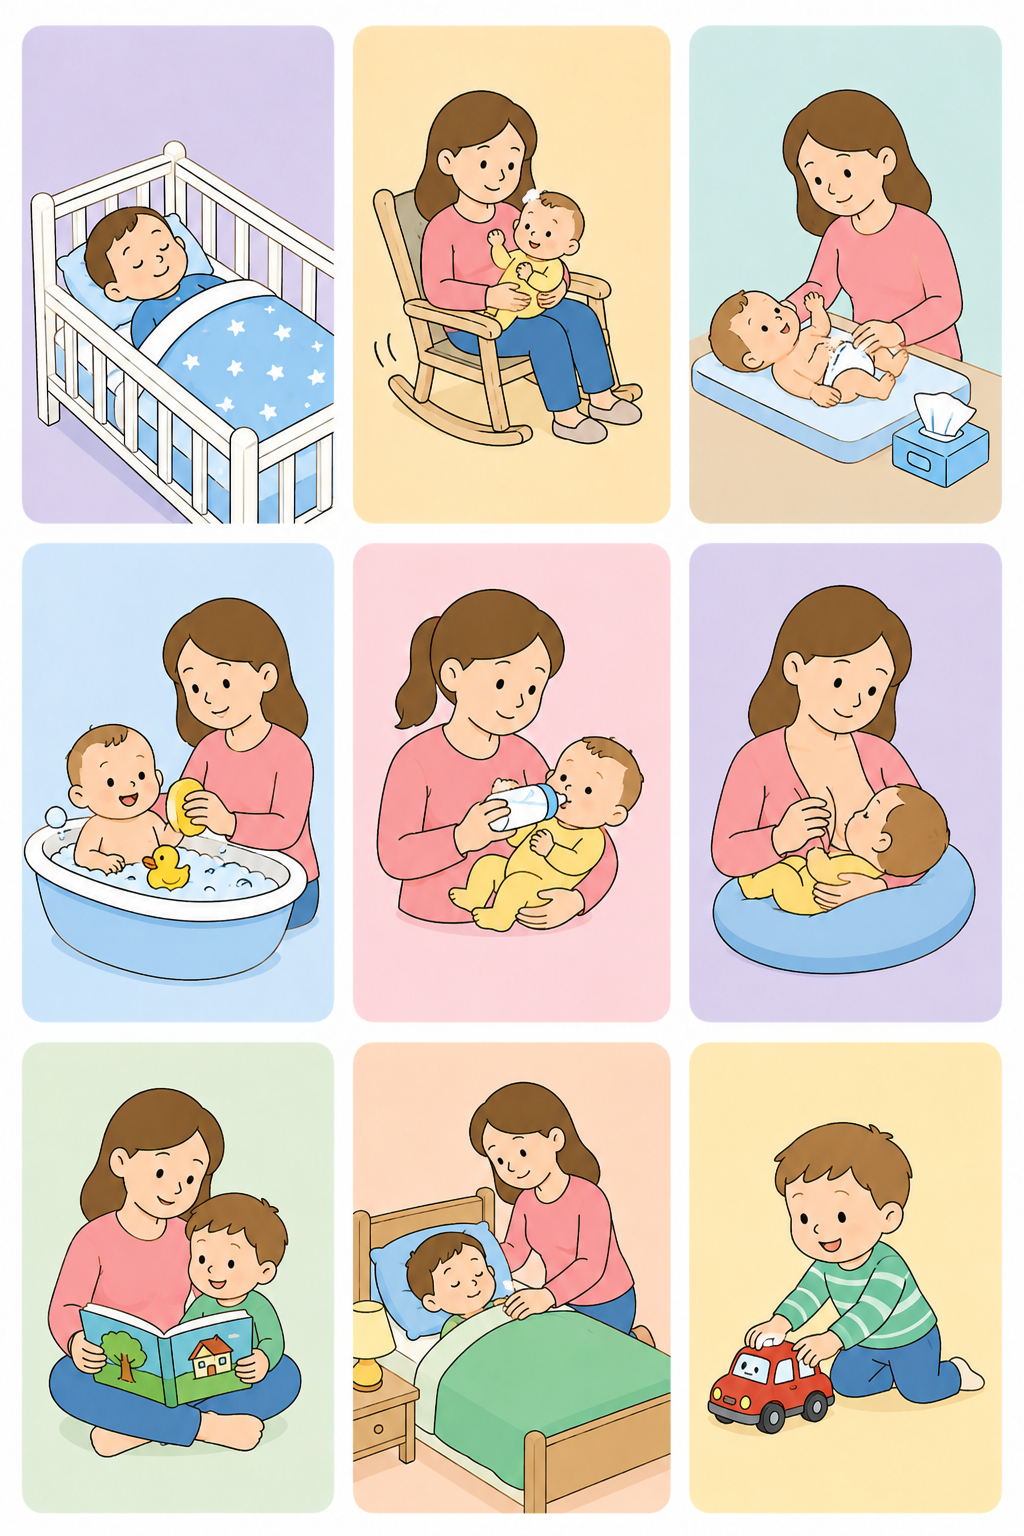
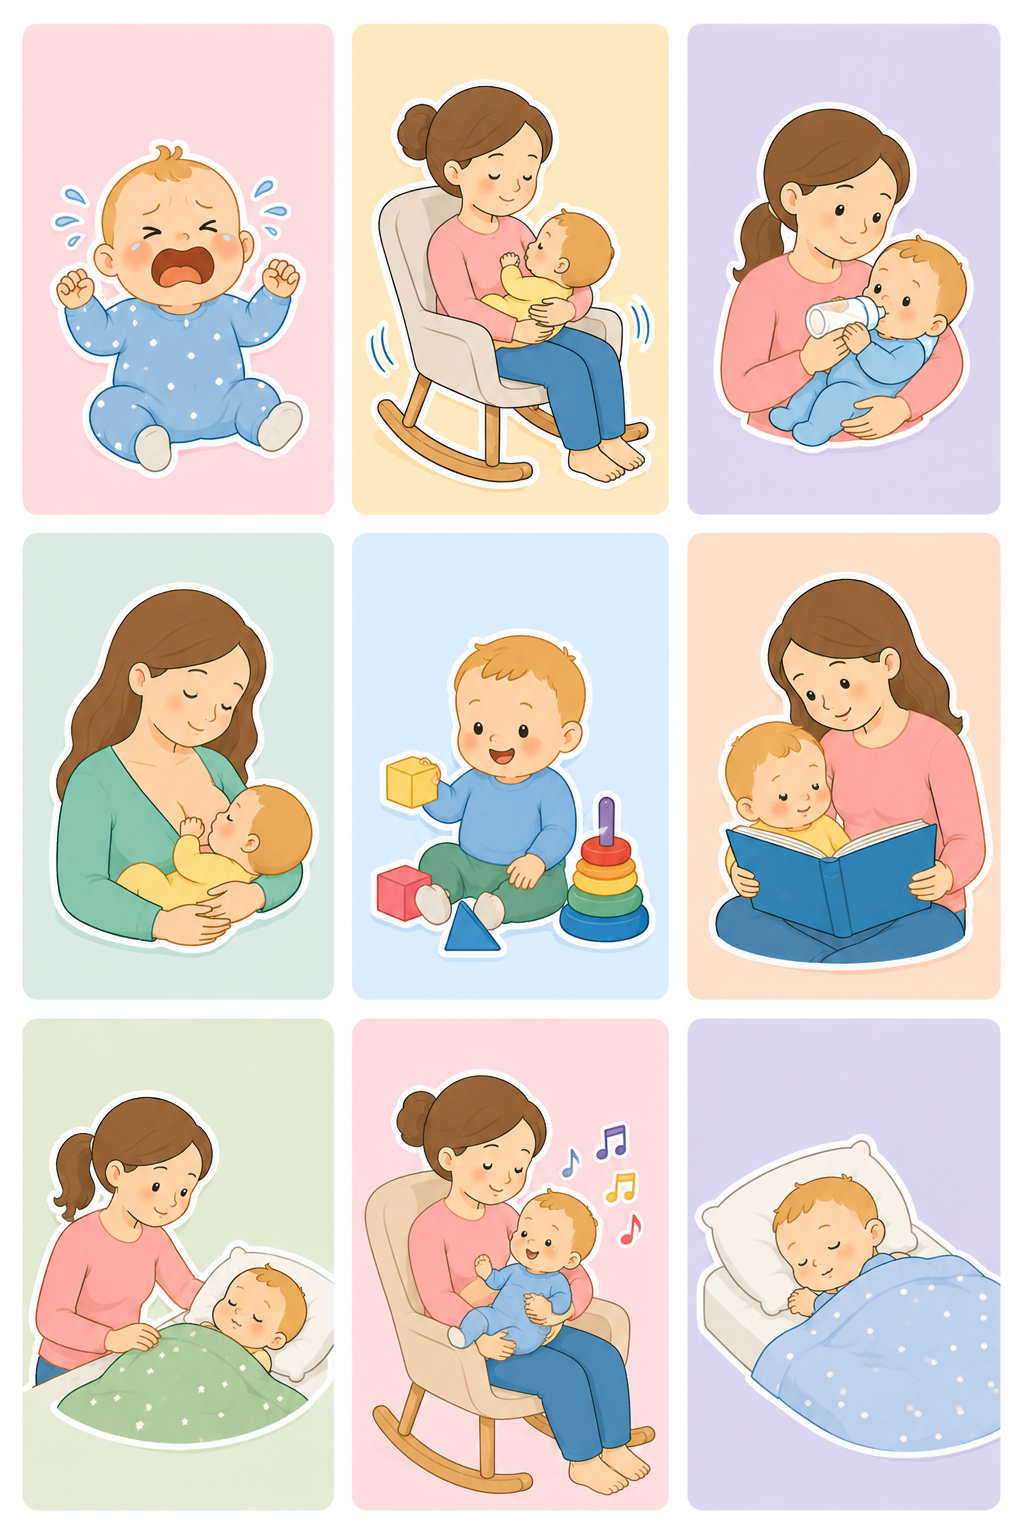
Aktualisiere ninos8 und passe Vokabeln an

diff --git a/bilder-daten.js b/bilder-daten.js
@@ -1044,15 +1044,15 @@ window.APP_FOLDERS = {
         title: "La habitación infantil – Bild 7",
         file: "ninos8.png",
         hotspots: [
-          { wort: "dormir", clickX: 16.7, clickY: 21.2, labelX: 24, labelY: 9.5, areaW: 30, areaH: 28 },
+          { wort: "llorar", clickX: 16.7, clickY: 21.2, labelX: 24, labelY: 9.5, areaW: 30, areaH: 28 },
           { wort: "mecer al bebé", clickX: 50, clickY: 21.2, labelX: 50, labelY: 9.5, areaW: 30, areaH: 28 },
-          { wort: "cambiar los pañales", clickX: 83.3, clickY: 21.2, labelX: 76, labelY: 9.5, areaW: 30, areaH: 28 },
-          { wort: "bañar al bebé", clickX: 16.7, clickY: 51.5, labelX: 24, labelY: 42, areaW: 30, areaH: 28 },
-          { wort: "dar el biberón", clickX: 50, clickY: 51.5, labelX: 50, labelY: 42, areaW: 30, areaH: 28 },
-          { wort: "amamantar al bebé", clickX: 83.3, clickY: 51.5, labelX: 76, labelY: 42, areaW: 30, areaH: 28 },
-          { wort: "leer un cuento", clickX: 16.7, clickY: 83.3, labelX: 24, labelY: 75, areaW: 30, areaH: 28 },
-          { wort: "acostar al niño", clickX: 50, clickY: 83.3, labelX: 50, labelY: 75, areaW: 30, areaH: 28 },
-          { wort: "jugar", clickX: 83.3, clickY: 83.3, labelX: 76, labelY: 75, areaW: 30, areaH: 28 }
+          { wort: "dar el biberón", clickX: 83.3, clickY: 21.2, labelX: 76, labelY: 9.5, areaW: 30, areaH: 28 },
+          { wort: "amamantar al bebé", clickX: 16.7, clickY: 51.5, labelX: 24, labelY: 42, areaW: 30, areaH: 28 },
+          { wort: "jugar", clickX: 50, clickY: 51.5, labelX: 50, labelY: 42, areaW: 30, areaH: 28 },
+          { wort: "leer un cuento", clickX: 83.3, clickY: 51.5, labelX: 76, labelY: 42, areaW: 30, areaH: 28 },
+          { wort: "acostar al niño", clickX: 16.7, clickY: 83.3, labelX: 24, labelY: 75, areaW: 30, areaH: 28 },
+          { wort: "cantar una nana", clickX: 50, clickY: 83.3, labelX: 50, labelY: 75, areaW: 30, areaH: 28 },
+          { wort: "dormir", clickX: 83.3, clickY: 83.3, labelX: 76, labelY: 75, areaW: 30, areaH: 28 }
         ]
       },
       {
